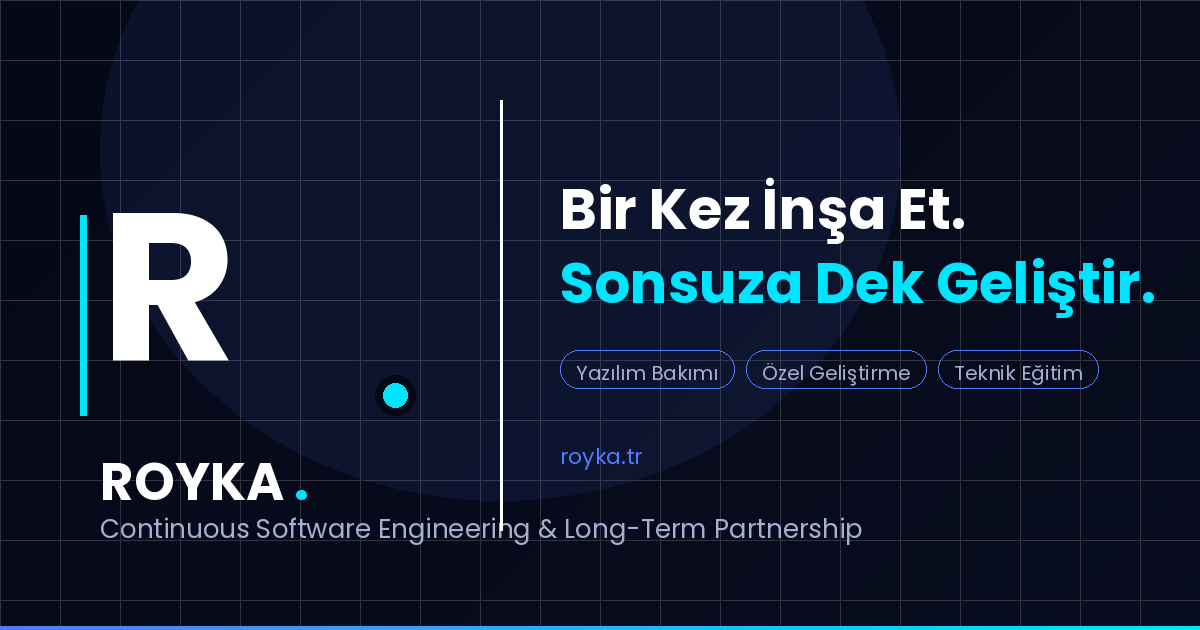
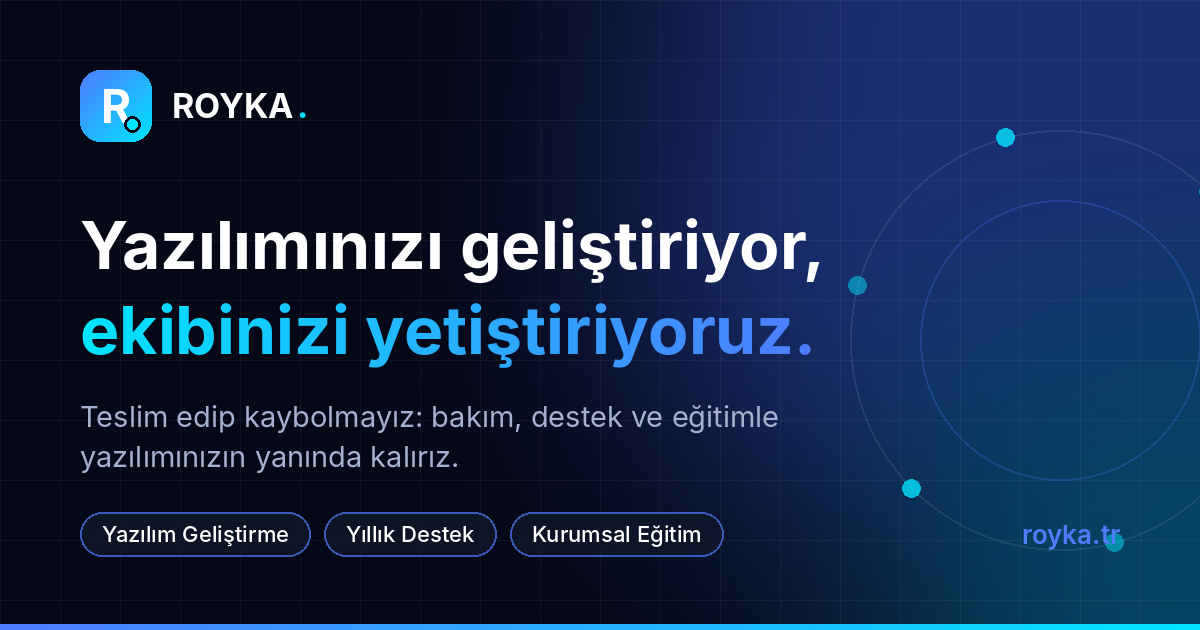
slogan degisimi

diff --git a/index.html b/index.html
@@ -3,27 +3,27 @@
 <head>
     <meta charset="UTF-8">
     <meta name="viewport" content="width=device-width, initial-scale=1.0">
-    <title>ROYKA — Continuous Software Engineering & Partnership</title>
+    <title>ROYKA — Yazılım Geliştirme, Destek ve Eğitim</title>
     
     <!-- Meta & SEO -->
-    <meta name="description" content="ROYKA helps businesses maintain, improve and grow their software through long-term engineering partnerships. Built once. Improved forever.">
-    <meta name="keywords" content="software support, website maintenance, custom software, java spring boot, software training, royka">
+    <meta name="description" content="ROYKA; KOBİ’ler ve kurumsal ekipler için yazılım geliştirme, yıllık yazılım desteği ve kurumsal yazılım eğitimi sunar. Teslim edip kaybolmayız: bakım, destek ve eğitimle yazılımınızın yanında kalırız.">
+    <meta name="keywords" content="yazılım geliştirme, yazılım desteği, web sitesi bakımı, özel yazılım, yazılım eğitimi, kurumsal eğitim, java spring boot, royka">
     <meta name="author" content="ROYKA">
     
     <!-- Open Graph / Social Media -->
-    <meta property="og:title" content="ROYKA — Built Once. Improved Forever.">
-    <meta property="og:description" content="Continuous Software Engineering & Long-Term Partnership.">
+    <meta property="og:title" content="ROYKA — Yazılımınızı Geliştiriyor, Ekibinizi Yetiştiriyoruz">
+    <meta property="og:description" content="Teslim edip kaybolmayız: bakım, destek ve eğitimle yazılımınızın yanında kalırız.">
     <meta property="og:type" content="website">
     <meta property="og:url" content="https://royka.tr">
     <meta property="og:image" content="https://royka.tr/og-image.webp">
     <meta property="og:image:width" content="1200">
     <meta property="og:image:height" content="630">
-    <meta property="og:image:alt" content="ROYKA — Bir Kez İnşa Et. Sonsuza Dek Geliştir.">
+    <meta property="og:image:alt" content="ROYKA — Yazılımınızı geliştiriyor, ekibinizi yetiştiriyoruz.">
     <meta property="og:locale" content="tr_TR">
     <meta property="og:locale:alternate" content="en_US">
     <meta name="twitter:card" content="summary_large_image">
-    <meta name="twitter:title" content="ROYKA — Built Once. Improved Forever.">
-    <meta name="twitter:description" content="Continuous Software Engineering & Long-Term Partnership.">
+    <meta name="twitter:title" content="ROYKA — Yazılımınızı Geliştiriyor, Ekibinizi Yetiştiriyoruz">
+    <meta name="twitter:description" content="Teslim edip kaybolmayız: bakım, destek ve eğitimle yazılımınızın yanında kalırız.">
     <meta name="twitter:image" content="https://royka.tr/og-image.webp">
 
     <!-- Favicon -->
@@ -104,12 +104,12 @@
                 </div>
 
                 <h1 class="hero-title">
-                    <span data-i18n="hero.title_p1">Bir Kez İnşa Et.</span><br>
-                    <span class="gradient-text" data-i18n="hero.title_p2">Sonsuza Dek Geliştir.</span>
+                    <span data-i18n="hero.title_p1">Yazılımınızı geliştiriyor,</span>
+                    <span class="gradient-text" data-i18n="hero.title_p2">ekibinizi yetiştiriyoruz.</span>
                 </h1>
 
                 <p class="hero-subtitle" data-i18n="hero.subtitle">
-                    ROYKA, uzun vadeli mühendislik ortaklıkları aracılığıyla işletmelerin yazılımlarını sürdürmelerine, geliştirmelerine ve büyütmelerine yardımcı olur.
+                    Teslim edip kaybolmayız: bakım, destek ve eğitimle yazılımınızın yanında kalırız.
                 </p>
 
                 <div class="hero-cta-group">

diff --git a/script.js b/script.js
@@ -17,9 +17,9 @@ document.addEventListener('DOMContentLoaded', () => {
             "hero.badge1": "Yazılım Bakımı",
             "hero.badge2": "Özel Geliştirme",
             "hero.badge3": "Teknik Eğitim",
-            "hero.title_p1": "Bir Kez İnşa Et.",
-            "hero.title_p2": "Sonsuza Dek Geliştir.",
-            "hero.subtitle": "ROYKA, uzun vadeli mühendislik ortaklıkları aracılığıyla işletmelerin yazılımlarını sürdürmelerine, geliştirmelerine ve büyütmelerine yardımcı olur.",
+            "hero.title_p1": "Yazılımınızı geliştiriyor,",
+            "hero.title_p2": "ekibinizi yetiştiriyoruz.",
+            "hero.subtitle": "Teslim edip kaybolmayız: bakım, destek ve eğitimle yazılımınızın yanında kalırız.",
             "hero.cta_primary": "Yıllık Desteği Başlat",
             "hero.cta_secondary": "Yeni Proje Geliştir",
             "hero.cta_tertiary": "Eğitim & Danışmanlık hizmetlerimizi de inceleyin",
@@ -139,9 +139,9 @@ document.addEventListener('DOMContentLoaded', () => {
             "hero.badge1": "Website Maintenance",
             "hero.badge2": "Software Development",
             "hero.badge3": "Software Education",
-            "hero.title_p1": "Built Once.",
-            "hero.title_p2": "Improved Forever.",
-            "hero.subtitle": "ROYKA helps businesses maintain, improve and grow their software through long-term engineering partnerships.",
+            "hero.title_p1": "We build your software",
+            "hero.title_p2": "and train your team.",
+            "hero.subtitle": "We don’t hand over and disappear: with maintenance, support and training, we stay with your software.",
             "hero.cta_primary": "Start Annual Support",
             "hero.cta_secondary": "Build New Project",
             "hero.cta_tertiary": "Check out our Education & Consulting services",

diff --git a/style.css b/style.css
@@ -1562,3 +1562,7 @@ body { min-height: 100svh; }
     .hero-copy > *, .hero-visual { animation: none; }
     .btn-primary::after { display: none; }
 }
+
+/* 18. Hero headline is now a full sentence: slightly smaller scale, comfortable measure */
+.hero-title { font-size: clamp(2rem, 1rem + 3.4vw, 3.5rem); letter-spacing: -0.025em; }
+.hero-title .gradient-text { display: inline; }
